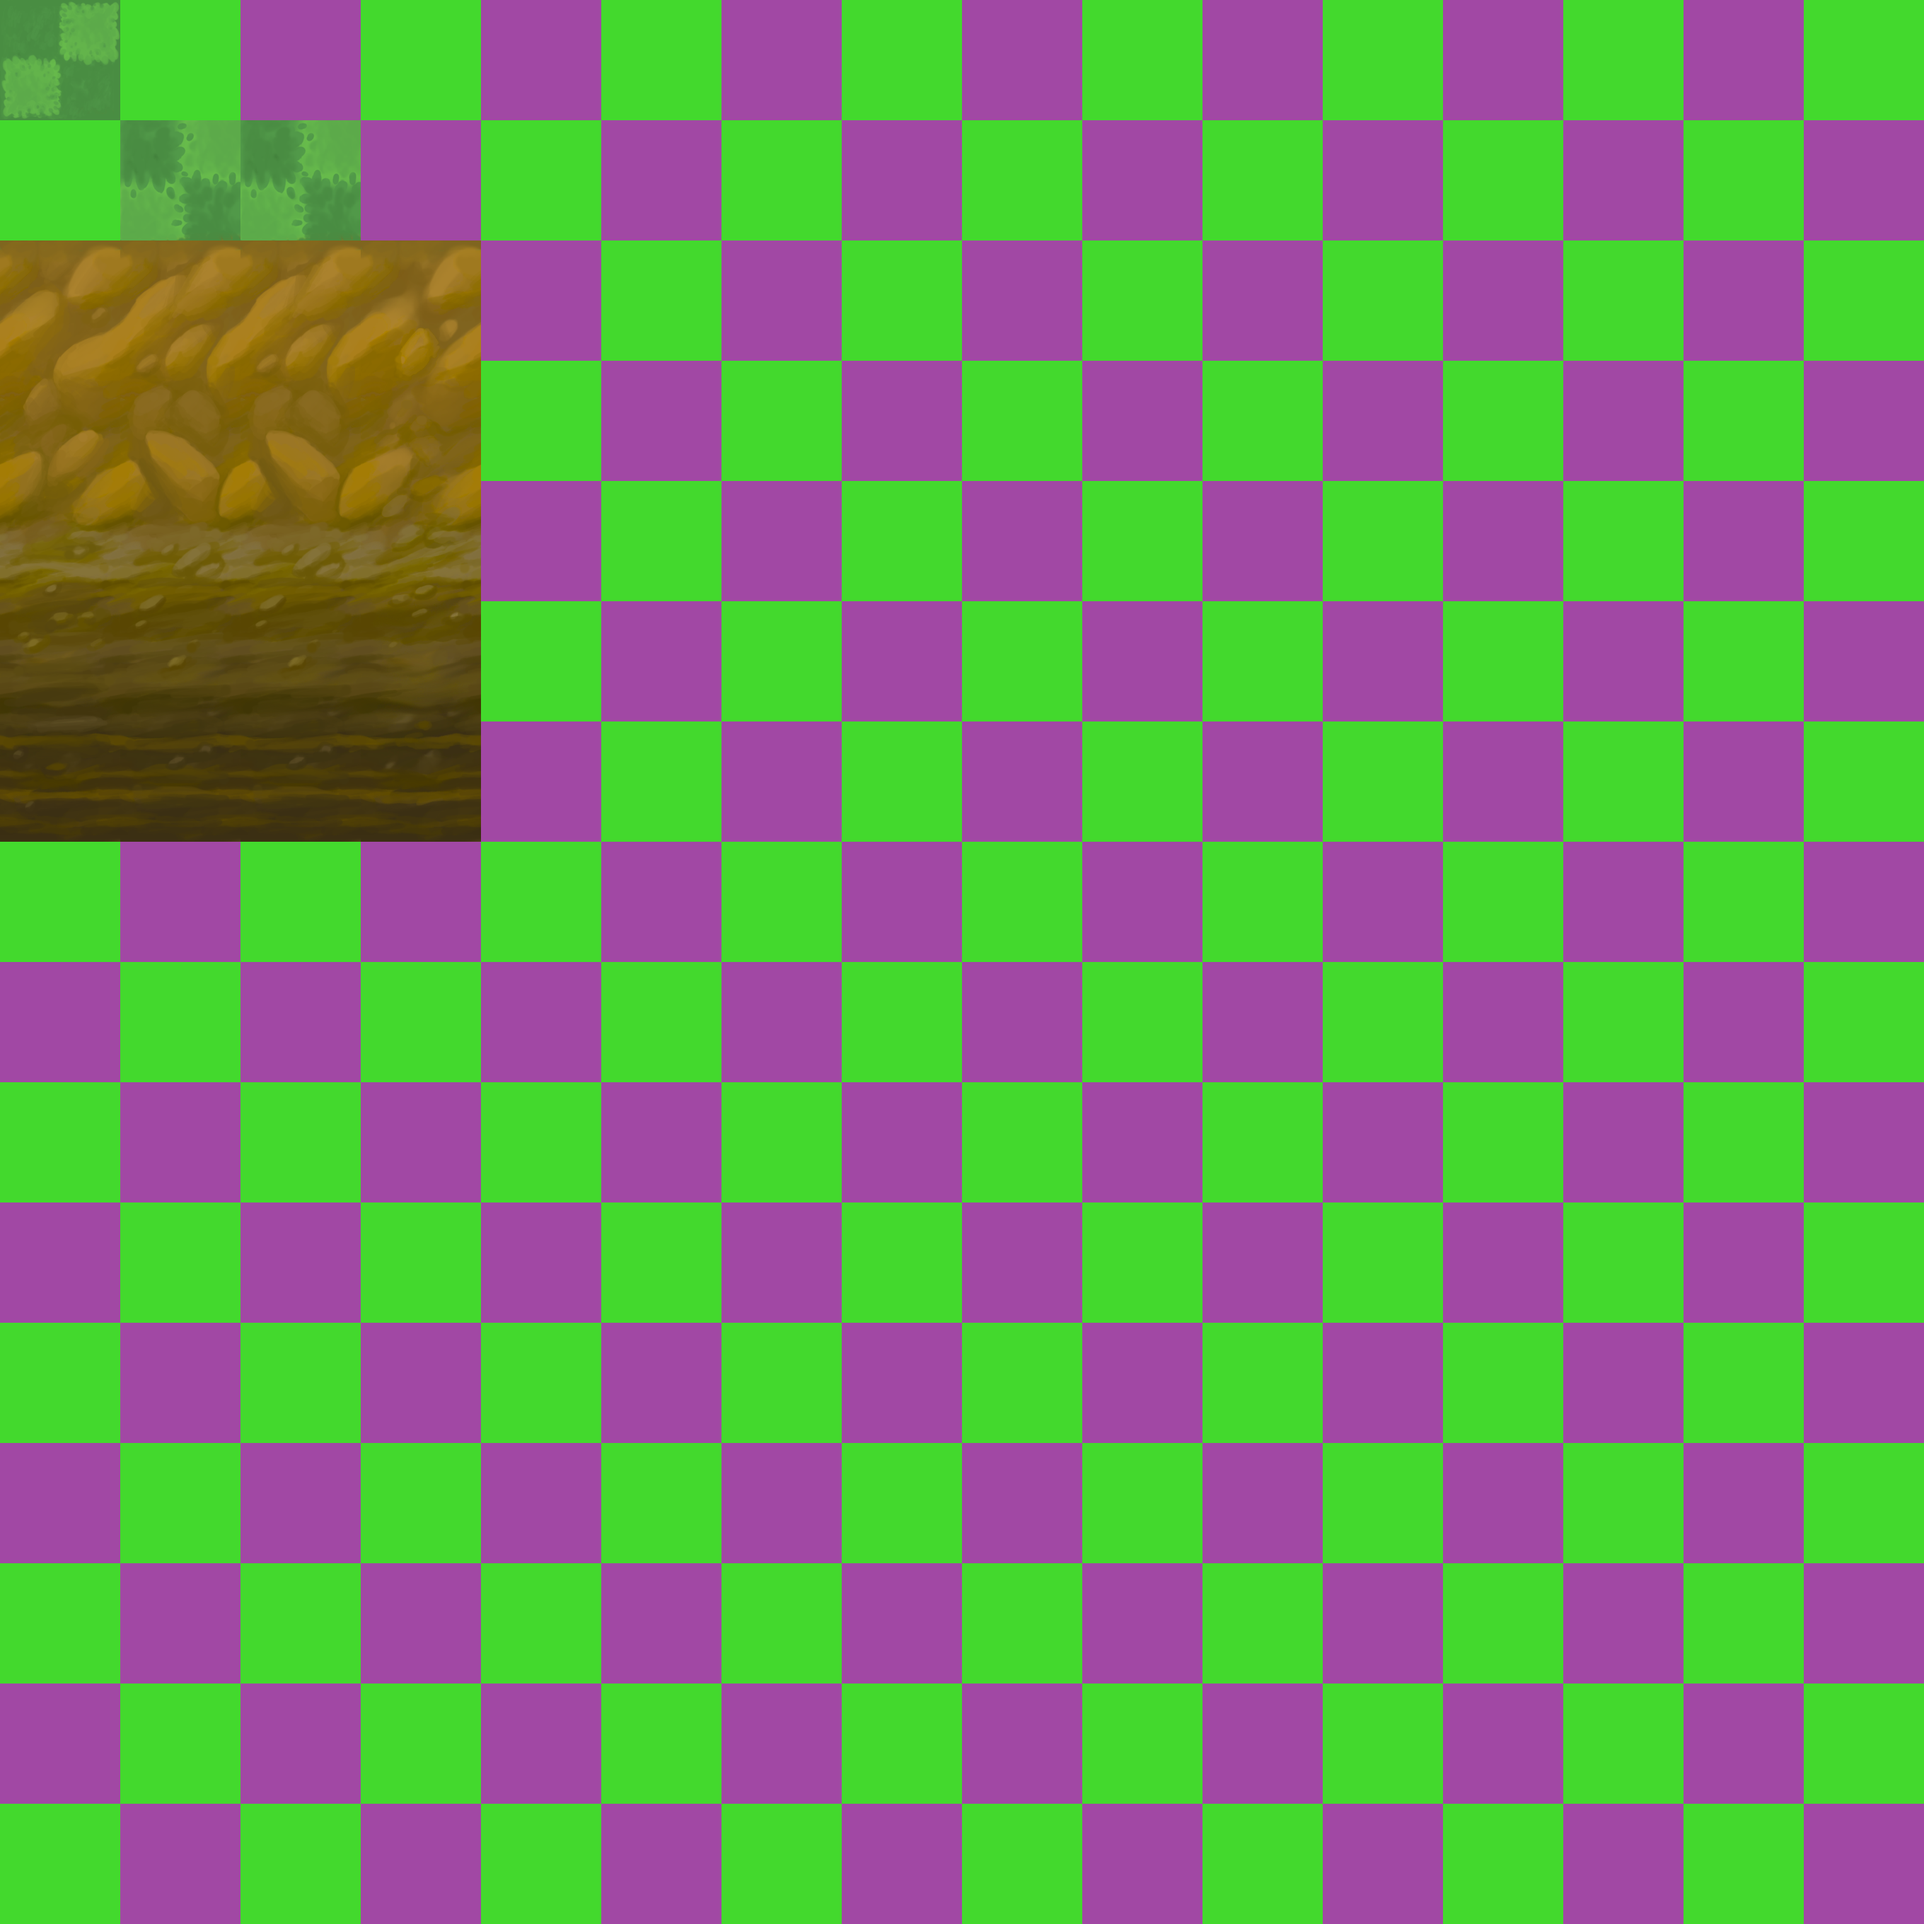
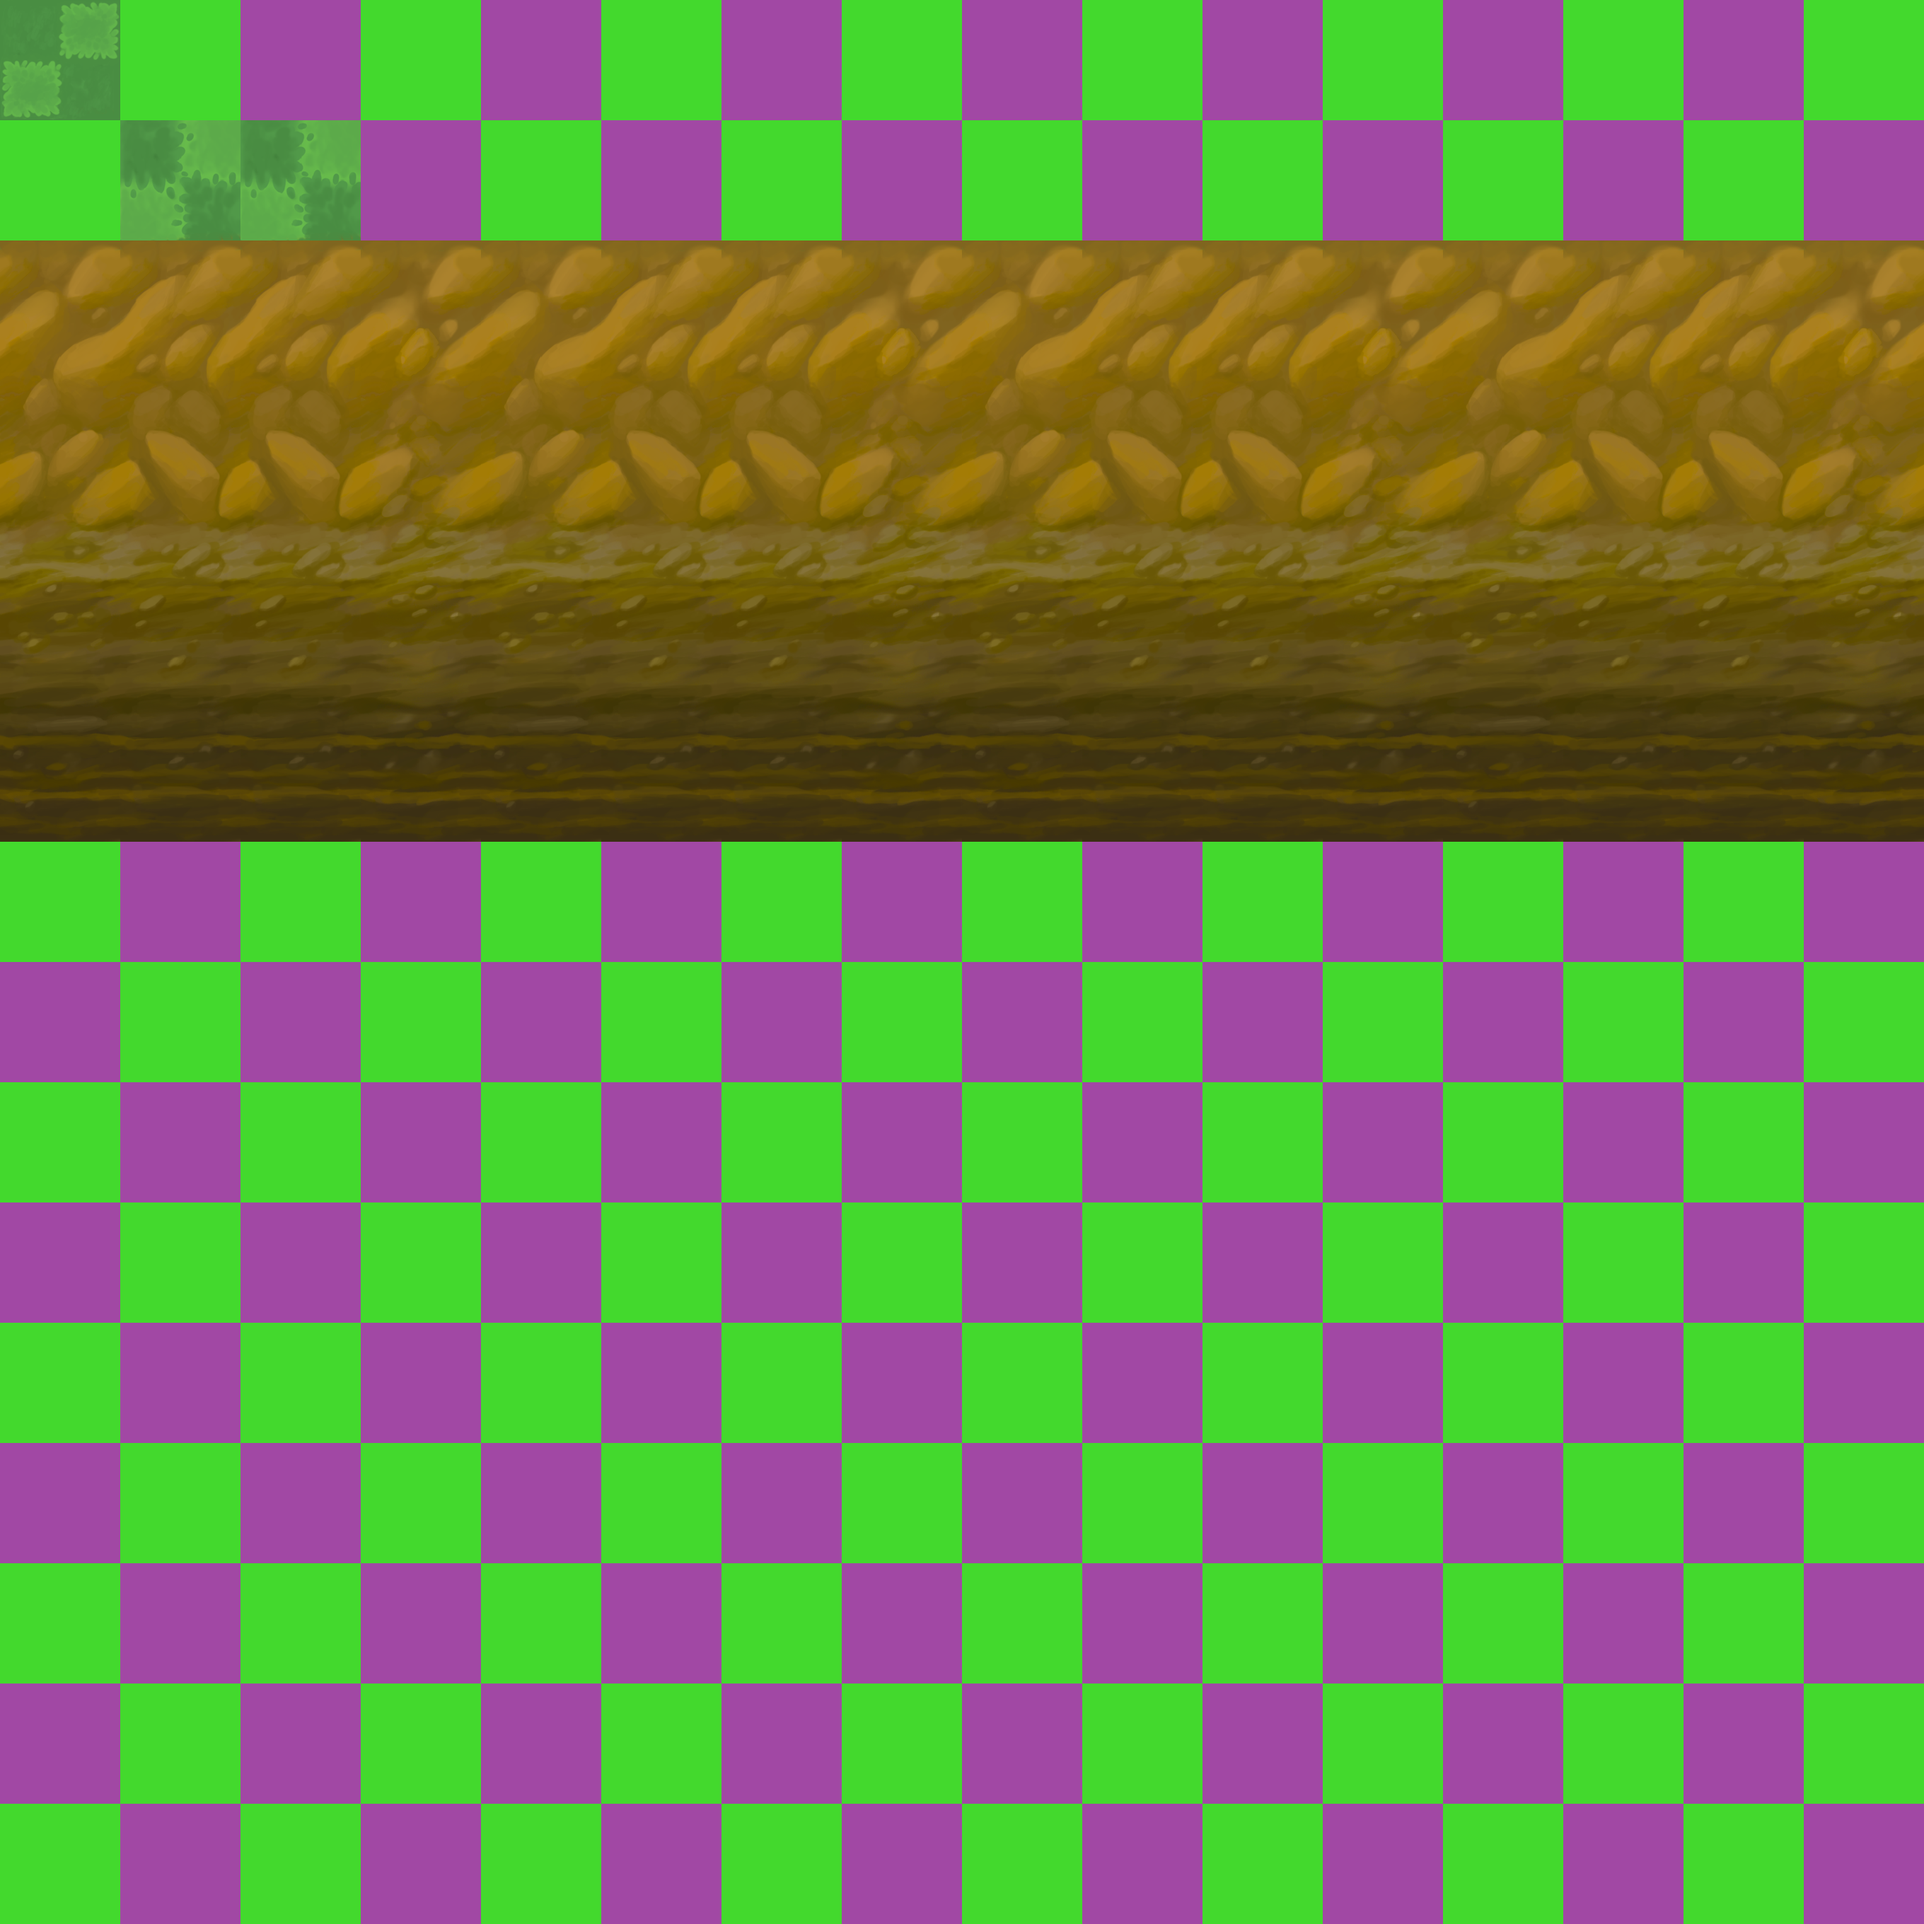
added kenzie's textures

Changed region(s): [[0.25, 0.125, 1.0, 0.4375]]

diff --git a/wolf_gang/src/systems/level_map/mesh.rs b/wolf_gang/src/systems/level_map/mesh.rs
@@ -21,14 +21,15 @@ use std::sync::mpsc;
 
 use super::*;
 
-pub const TILE_PIXELS: f32 = 64.;
-pub const SHEET_PIXELS: f32 = 1024.;
-pub const TILE_SIZE: f32 = TILE_PIXELS/SHEET_PIXELS;
-pub const BEVEL_SIZE: f32 = 0.2;
-pub const START_REPEAT_ABOVE_HEIGHT: f32 = 7.;
-pub const START_REPEAT_BELOW_HEIGHT: f32 = 0.;
-pub const REPEAT_AMOUNT_ABOVE: f32 = 4.;
-pub const REPEAT_AMOUNT_BELOW: f32 = 4.;
+const TILE_PIXELS: f32 = 64.;
+const SHEET_PIXELS: f32 = 1024.;
+const TILE_SIZE: f32 = TILE_PIXELS/SHEET_PIXELS;
+const BEVEL_SIZE: f32 = 0.2;
+const START_REPEAT_ABOVE_HEIGHT: f32 = 2.;
+const START_REPEAT_BELOW_HEIGHT: f32 = 0.;
+const REPEAT_AMOUNT_ABOVE: f32 = 2.;
+const REPEAT_AMOUNT_BELOW: f32 = 1.;
+const WALL_VERTICAL_OFFSET: f32 = 9.;
 
 lazy_static!{
     pub static ref NEIGHBOR_DIRS: [Point; 8] = [
@@ -730,13 +731,15 @@ pub fn create_drawing_thread_local_fn() -> Box<dyn FnMut(&mut legion::world::Wor
                                             
                                             let true_top = true_top.unwrap().y;
 
-                                            let vert_offset = if bottom < START_REPEAT_BELOW_HEIGHT  {
+                                            let mut vert_offset = if bottom < START_REPEAT_BELOW_HEIGHT  {
                                                 (bottom / REPEAT_AMOUNT_BELOW).floor() * REPEAT_AMOUNT_BELOW * TILE_SIZE
                                             } else if bottom - START_REPEAT_ABOVE_HEIGHT >= START_REPEAT_BELOW_HEIGHT {
                                                 ((((bottom - START_REPEAT_ABOVE_HEIGHT) / REPEAT_AMOUNT_ABOVE).floor() * REPEAT_AMOUNT_ABOVE) - REPEAT_AMOUNT_BELOW) * TILE_SIZE
                                             } else {
                                                 - REPEAT_AMOUNT_BELOW * TILE_SIZE
                                             }; //height * TILE_SIZE;
+
+                                            vert_offset -= WALL_VERTICAL_OFFSET * TILE_SIZE;
 
                                             vertex_data.uvs.push(Vector2::new(u,-1.-height * TILE_SIZE - bottom * TILE_SIZE + vert_offset)); //bottom of face
                                             vertex_data.uvs.push(Vector2::new(u,-1.-bottom * TILE_SIZE + vert_offset)); //top of face
@@ -998,7 +1001,6 @@ pub fn scale_from_origin(pt: Vector3, origin: Vector3, scale_amount: f32) -> Vec
 } 
 
 pub fn get_open_sides(world: &legion::world::World, map_data: &MapChunkData, point: Point, checked: &HashSet<Point>) -> HashSet<Point> {
-    // let mut open_sides: HashSet<Point> = HashSet::new();
     let chunk_max = map_data.octree.get_aabb().get_max();
     let chunk_min = map_data.octree.get_aabb().get_min();
     
